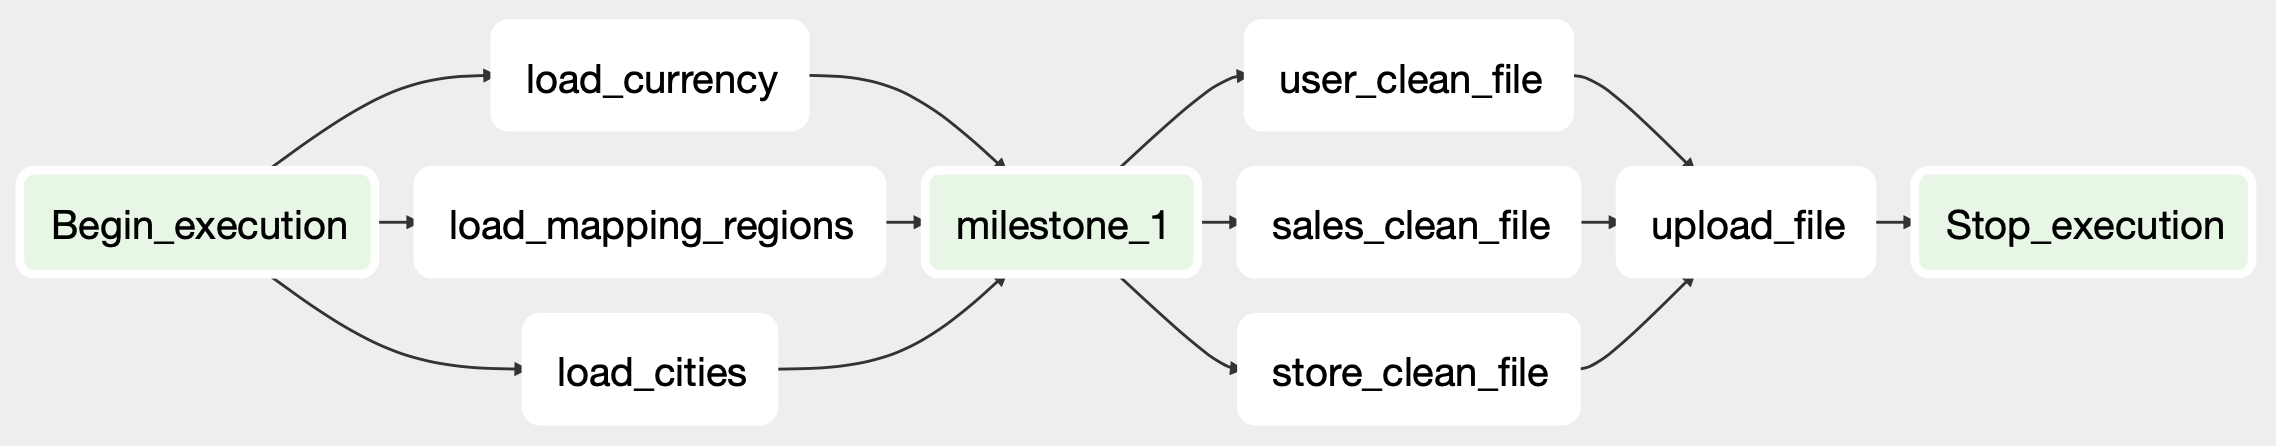
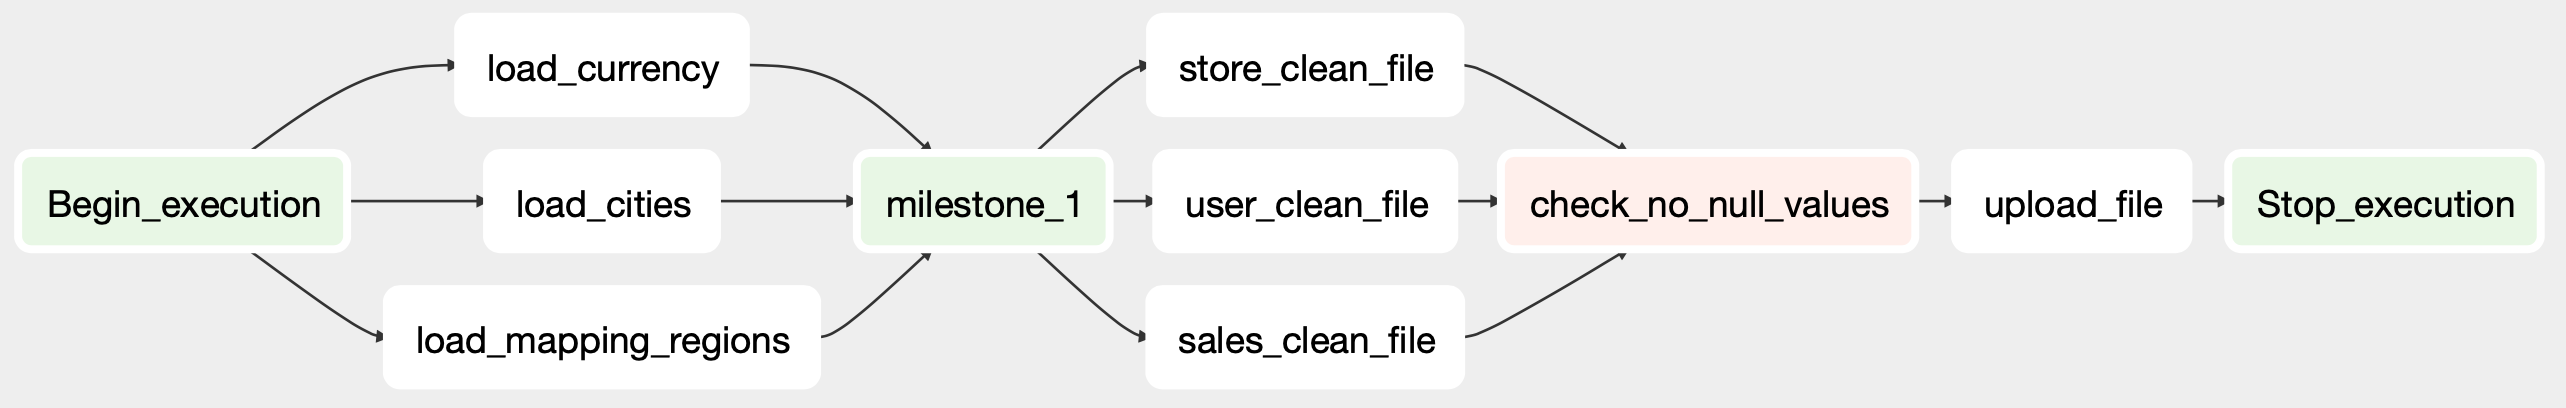
progress initial-dag adding intial checks

diff --git a/airflow/dags/initial_dag.py b/airflow/dags/initial_dag.py
@@ -1,7 +1,7 @@
 from datetime import datetime, timedelta
 import os
 from os import listdir
-from os.path import isfile, join
+from os.path import isfile, join, isdir, abspath
 
 from airflow import DAG
 from airflow.operators.dummy_operator import DummyOperator
@@ -92,11 +92,35 @@ store_clean_file = CleanFileOperator(
 )
 
 
-def check_no_null(ds, **kwargs):
-    """Print the Airflow context and ds variable from the context."""
-    pprint(kwargs)
-    print(ds)
-    return 'Whatever you return gets printed in the logs'
+def check_action(folder, year, file) :
+    path = join(cf.OUTPUTS_DIR, folder, year, file)
+    data = []
+    for line in open(path, 'r'):
+        d = json.loads(line)
+        if folder == 'users' :
+            id_p = d['id_profil']
+            if id_p == None :
+                print(f"path : {path} - file : {file}")
+                raise Exception("id_profil cannot be None")
+
+        data.append(json.loads(line))
+        
+
+
+
+def check_no_null():
+    
+    folders = [f for f in listdir(cf.OUTPUTS_DIR) if isdir(join(cf.OUTPUTS_DIR, f))]
+    for folder in folders :
+        inner_folder = Path(join(cf.OUTPUTS_DIR, folder))
+        year_folders = [f for f in listdir(inner_folder) if isdir(join(cf.OUTPUTS_DIR, folder, f))]
+        for year_folder in year_folders :
+            file_path = join(cf.OUTPUTS_DIR, folder, year_folder)
+            files = [f for f in listdir(file_path) if isfile(join(file_path, f)) and not f.startswith('.')]
+            for file in files :
+                check_action(folder, year_folder, file)
+
+
 
 check_no_null_values = PythonOperator(
     task_id='check_no_null_values',
